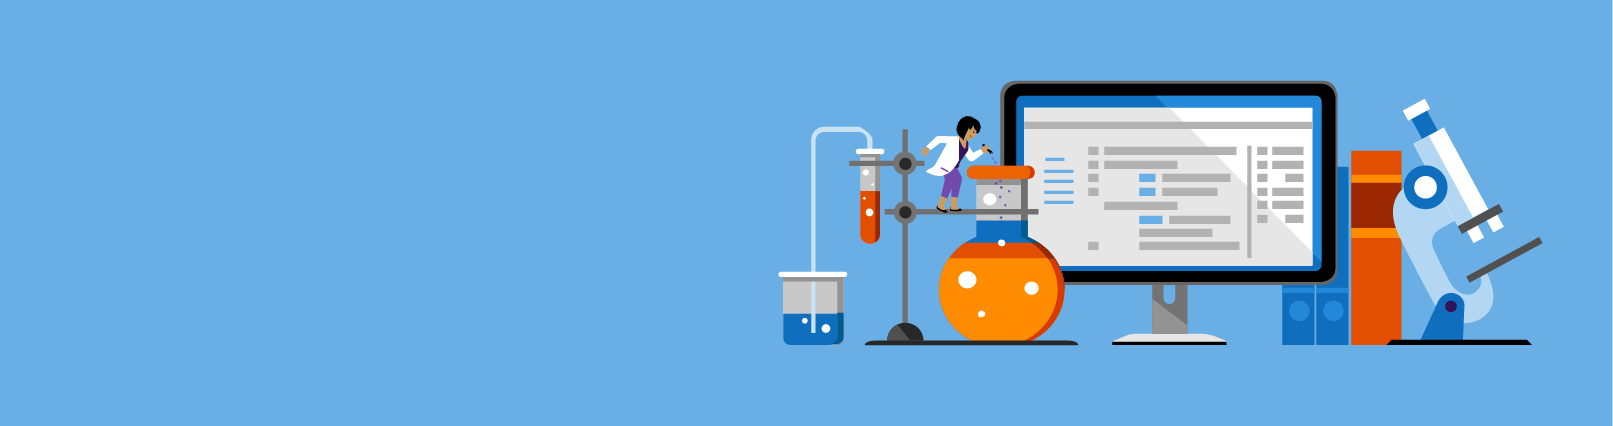
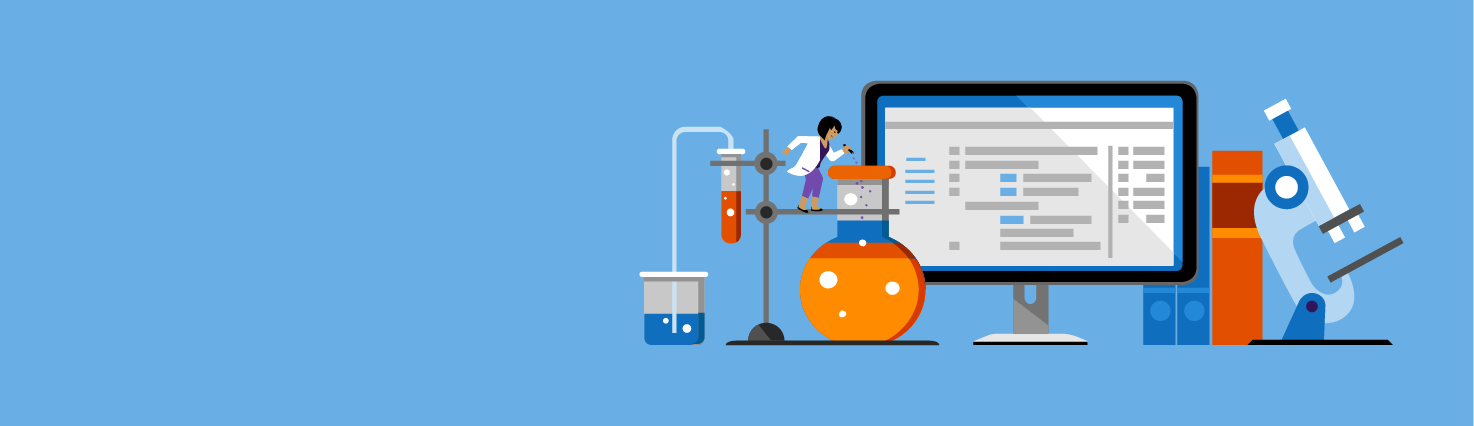
Fixing css

Changed region(s): [[0.4369, 0.1831, 0.9674, 0.8239]]

diff --git a/css/customstyles.css b/css/customstyles.css
@@ -1558,7 +1558,7 @@ div.labcols{
 }
 
 div.rowMain{
-    background-image: url("almvm-hero-right-blue.png");
+    background-image: url("../images/almvm-hero-right-blue.png");
     display: block;
     background-color: skyblue;
     margin-top: 73px;
@@ -1569,8 +1569,9 @@ div.rowMain{
 div.columnMain{
         float: left;
         width: 35%;
-        padding-top: 70px;
+        padding-top: 100px;
         font-size: 32px;
-        margin-left: 200px;
+        margin-left: 150px;
+
         
 }

diff --git a/_posts/2017-12-25-almvm2017wu.md b/_posts/2017-12-25-almvm2017wu.md
@@ -1,6 +1,6 @@
 ---
 title:  "Visual Studio ALM VM 2017 Winter Update Available"
-permalink: /almvm2017wuavailable.html
+permalink: /almvm2017wu.html
 pubdate: December 25, 2017
 Author: Sachin Hridayraj
 pageurl: /labs/tfs/
